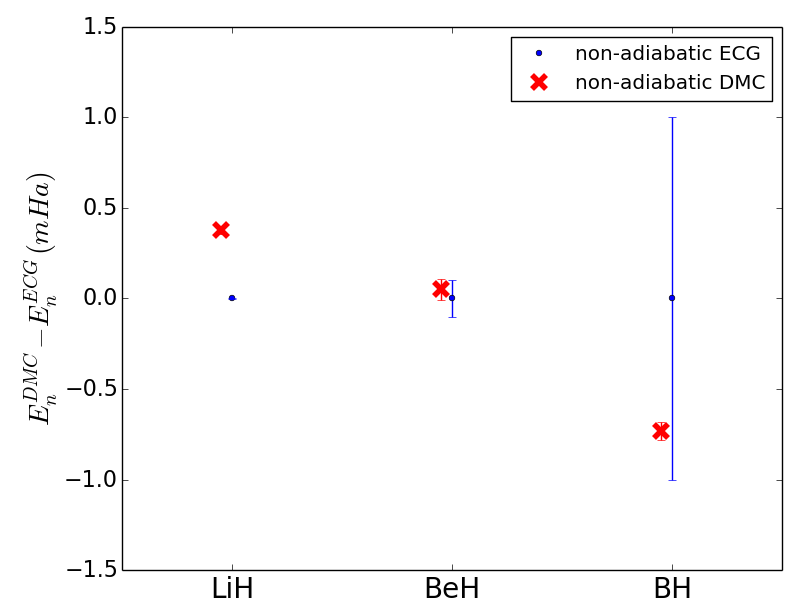
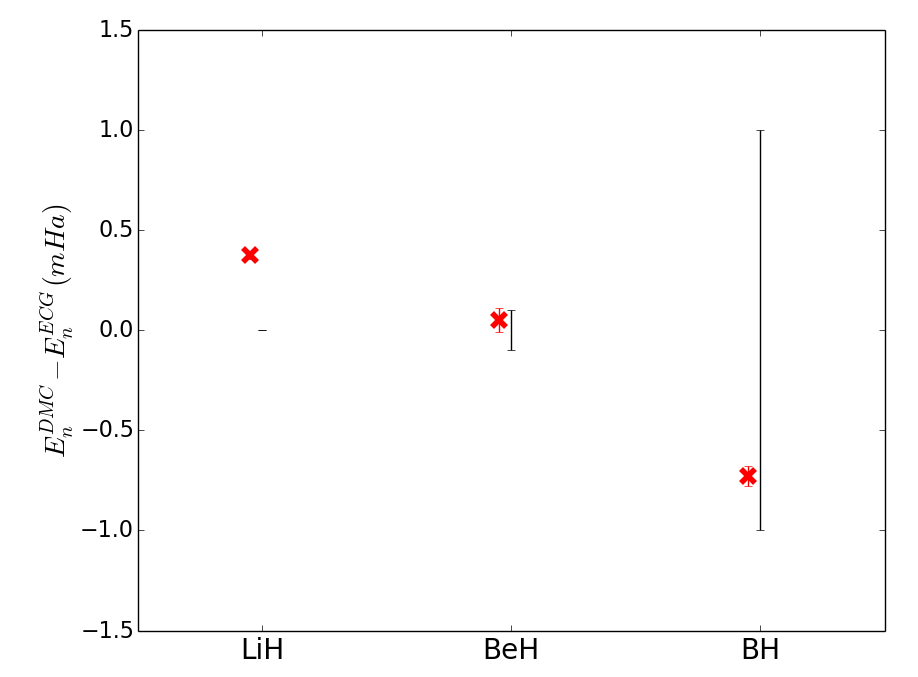
Reorganizing Results
Talk about atoms and ions first, then hydrides. Discuss every figure,
explain all differences.

diff --git a/main.tex b/main.tex
@@ -10,7 +10,7 @@
 \title{Accurate predictions of ionization and atomization energies without the Born-Oppenheimer approximation}
 \input{Section/authors}
 \begin{abstract}
-In this work we calculate the non-relativistic ground-state energies of atomic and molecular systems both with and without the Born-Oppenheimer approximation. For this we utilize the fixed-node diffusion Monte Carlo method, in which the nodes depend on both the electronic and ionic positions. We report ground state energies, ionization energies and atomization energies to an accuracy of less than $1$ mHa for all but the largest systems. We find the ionization energies of the atoms to be independent of the adiabatic assumption except for O and F where the non-adiabatic and adiabatic ionization energies differ by less than 0.5 mHa. The observation suggests that the non-adiabatic coupling between the nucleus and valence electrons is not important in the ionization process. The atomization energies, however, are influenced by the non-adiabatic coupling between electrons and nuclei at the mHa level. We demonstrate that the fixed-node approximation provides a highly accurate and scalable approach to treating molecular systems beyond the Born-Oppenheimer approximation.
+In this work we calculate the non-relativistic ground-state energies of atomic and molecular systems both with and without the Born-Oppenheimer approximation. For this we utilize the fixed-node diffusion Monte Carlo method, in which the nodes depend on both the electronic and ionic positions. We report ground state energies, ionization energies and atomization energies to an accuracy of less than $1$ mHa for all but the largest systems. We find the ionization energies of the atoms to be independent of the adiabatic assumption except for O and F where the non-adiabatic and adiabatic ionization energies differ by less than 0.5 mHa. This observation suggests that the non-adiabatic coupling between the nucleus and valence electrons is not important in the ionization process. The atomization energies, however, are influenced by the non-adiabatic coupling between electrons and nuclei at the mHa level. We demonstrate that the fixed-node approximation provides a highly accurate and scalable approach to treating molecular systems beyond the Born-Oppenheimer approximation.
 \end{abstract}
 \maketitle
 
@@ -52,7 +52,7 @@ Once a satisfactory electronic wave function has been obtained, we construct the
 \begin{align}
 \Psi_{ei}(\vec{r},\vec{R})=\psi_I(\vec{R})\bar{\psi}_e(\vec{r},\vec{R}), \label{eq:psi}
 \end{align}
-where $\vec{R}$ denotes the spatial coordinates of all ions and $\bar{\psi}_e(\vec{r},\vec{R})$ is an ion-dependent electronic wave function adapted from the clamped-ion wave function $\psi_e(\vec{r};\vec{R}_o)$. Due to the nuclear localization of the Gaussian electronic basis set used in the quantum chemistry calculations for constructing the electronic wave function, the nodes of $\bar{\psi}_e$ change based on the ionic positions, which we have previously called the dragged-node approximation~\cite{Tubman_ECG}. In particular, the nodes only coincide with those obtained in the clamped-ion limit when the ions are at the equilibrium positions $\bar{\psi}_e(\vec{r},\vec{R}_o)=\psi_e(\vec{r};\vec{R}_o)$. Although there are approaches for going beyond this approximation, it was demonstrated to be highly accurate over a range of molecules in previous work.~\cite{Tubman_ECG} For the systems considered here, we can impose various symmetries of the Hamiltonian onto the wave function that arise from the relative motion of the ions. In Fig.~\ref{fig:drag} we demonstrate this strategy for the simple cases of a hydrogen atom and a H$_2^+$ molecular ion. This can be generalized for use in larger systems or even applied to parts of a bigger system, e.g., treating light ions as quantum particles and heavy ions as "clamped".
+where $\vec{R}$ denotes the spatial coordinates of all ions and $\bar{\psi}_e(\vec{r},\vec{R})$ is an ion-dependent electronic wave function adapted from the clamped-ion wave function $\psi_e(\vec{r};\vec{R}_o)$. Due to the nuclear localization of the Gaussian electronic basis set used in the quantum chemistry calculations for constructing the electronic wave function, the nodes of $\bar{\psi}_e$ change based on the ionic positions, which we have previously called the dragged-node approximation~\cite{Tubman_ECG}. In particular, the nodes only coincide with those obtained in the clamped-ion limit when the ions are at their equilibrium positions $\bar{\psi}_e(\vec{r},\vec{R}_o)=\psi_e(\vec{r};\vec{R}_o)$. Although there are approaches for going beyond this approximation, it was demonstrated to be highly accurate over a range of molecules in previous work.~\cite{Tubman_ECG} For the systems considered here, we can impose various symmetries of the Hamiltonian onto the wave function that arise from the relative motion of the ions. In Fig.~\ref{fig:drag} we demonstrate this strategy for the simple cases of a hydrogen atom and a H$_2^+$ molecular ion. This can be generalized for use in larger systems or even applied to parts of a bigger system, e.g., treating light ions as quantum particles and heavy ions as "clamped".
 
 The ionic wave function consists of simple products of Gaussian wave functions over each pair of nuclei,
 \begin{align}
@@ -67,22 +67,25 @@ where $a_{ij}$ is a coefficient for the ionic wave function that is optimized an
 \begin{figure}
 \centering
 \includegraphics[scale=.4]{Figures/atom-ECG}
-\caption{FN-DMC ground state energies for $\text{Be}^+$, Be, $\text{B}^+$, B, $\text{C}^+$ relative to ECG references.~\cite{Stanke_Be,Puchalski_Be+,Bubin_BeH_noBO,Bubin_B,Bubin_B+,Bubin_C+} These differences provide an estimate for the fixed-node error. \label{fig:atom-ECG}}
+\caption{FN-DMC ground state energies for $\text{Be}^+$, Be, $\text{B}^+$, B, $\text{C}^+$ relative to ECG references for either clamped-ion or non-adiabatic calculations.~\cite{Stanke_Be,Puchalski_Be+,Bubin_BeH_noBO,Bubin_B,Bubin_B+,Bubin_C+} \label{fig:atom-ECG}}
 \end{figure}
 
-\begin{figure}[h]
-\centering
-\includegraphics[scale=.4]{Figures/dia-ECG}
-\caption{Ground state energies of LiH, BeH and BH calculated with non-adiabatic FN-DMC relative to ECG results.~\cite{Adamowicz_LiH,Koput_BeH,Miliordos_BH}.\label{fig:dia-ECG}}
+\begin{figure}
+\includegraphics[scale=.4]{Figures/atom-nad-ad}
+\caption{Non-adiabatic contribution to ground state energies of atoms and ions. $E_n^{DMC}$ denotes the non-adiabatic ground state energy and $E_c^{DMC}$ the clamped-ion ground state energy. Non-adiabatic contribution shows very little dependence with the ionized state. \label{fig:atom-nad-ad}}
 \end{figure}
-
-\subsection{Ground State Energies}
 
 Ground state energies are calculated for first row atoms, ions and hydrides with and without the adiabatic assumption, see Table \ref{tab:ionization} and \ref{tab:atomization}. For the small systems, Li, Be, B, Be$^+$, B$^+$, C$^+$, LiH the ECG/Hylleraas results are converged to several digits beyond what can be done with standard quantum chemistry techniques. Thus these results are likely much more accurate than experimental results and are converged to an accuracy beyond our FN-DMC results.
 
-As an illustration of the high quality QMC techniques used in this work, we compare our atomic results with a recent QMC benchmark study~\cite{Seth_Bench}. The clamped nuclei ground state FN-DMC energies consistently agree across all systems (except for O$^{+}$), within error bars. This is an interesting coincidence since we used a different approach in optimizing our wave functions. In particular our large ($\sim$ 1000 CSF) multi-determinant expansions, can be compared with the approach used by Seth {\it et al.}~\cite{Seth_Bench}, which relies on moderately-sized multi-determinant expansions ($\sim$ 100 CSF) with a backflow transformation. We compare our diatomic results with the best available ECG results whenever possible. The clamped nuclei ground state energies for LiH, BeH and BH are on par with the ECG results~\cite{Adamowicz_LiH,Koput_BeH,Miliordos_BH}. When 
- 
-For the atomic systems, there are five ECG calculations of non-adiabatic ground state energies we can use as benchmarks. The non-adiabatic ground-state energies for Be, $\text{Be}^+$, B, $\text{B}^+$ and $\text{C}^+$ are in agreement with ECG results within 0.3 mHa as shown in Figure \ref{fig:atom-ECG}. The non-adiabatic energies of the hydrides are in agreement with the ECG results for LiH and BeH to within 0.5 mHa as shown in Figure \ref{fig:dia-ECG}. For small systems, ECG results are typically orders of magnitude more accurate than the best QMC and quantum chemistry simulations. However, with BH being one of the largest ECG simulations performed, the QMC result is actually lower in energy, in this case by 1 mHa. For the systems CH, OH, and HF, there are no explicit simulations we can compare against, and we rely on the experimental results and the results with estimated non-adiabatic corrections for comparison.
+\subsection{Atoms and Ions}
+
+As an illustration of the high quality QMC techniques used in this work, we compare our adiabatic atomic results with a recent QMC benchmark study~\cite{Seth_Bench}. The clamped nuclei ground state FN-DMC energies consistently agree across all systems (except for O$^{+}$), within error bars. This is an interesting coincidence since we used a different approach in optimizing our wave functions. In particular our large ($\sim$ 1000 CSF) multi-determinant expansions can be compared with the approach used by Seth {\it et al.}~\cite{Seth_Bench}, which relies on moderately-sized multi-determinant expansions ($\sim$ 100 CSF) with a backflow transformation. 
+
+For the atomic systems, there are five ECG calculations of non-adiabatic ground state energies we can use as benchmarks. The non-adiabatic ground-state energies for Be, $\text{Be}^+$, B, $\text{B}^+$ and $\text{C}^+$ are in agreement with ECG results within 0.3 mHa as shown in Figure \ref{fig:atom-ECG}. In Figure \ref{fig:atom-ECG}, the ECG error bars are absorbed into the DMC error bars. Since they are orders of magnitude smaller, they do not affect the appearance of this plot. Assuming the ECG results are converged to the exact ground state energies, the difference between clamped-ion DMC ground state and ECG reference shows the amount of fixed-node error present in our electronic wave functions, whiles its non-adiabatic counterpart estimates the fixed-node error for the electron-ion wave function. We see that the fixed-node error in the electron-ion wave functions can be larger than that in the electronic wave function at the sub-mHa level. Since the dragged-node approximation does not change the quality of nodes for atoms and ions, the additional fixed-node error in the electron-ion wave function indicates that nuclear-electron correlation can non-trivially modify the nodes of the wave function.
+
+In Figure \ref{fig:atom-nad-ad}, we provide estimates of the non-adiabatic contribution to ground state energies. The amount of non-adiabatic contribution increases with atomic number but stays relatively constant between neatral and cationic species.
+
+The ionization energies are reported in Table \ref{tab:ionization} and shown in Figure \ref{fig:ionization}. It is interesting to note that even though the ground-state energy of an atom can differ significantly from that of its cation (as much as 3 mHa for $\text{F}^+$). The ionization energies calculated with and without the adiabatic assumption are statistically indistinguishable except for O and F, where the differences are 0.26(11)mHa and 0.49(12)mHa respectively. This observation suggests that for atomic systems, the non-adiabatic coupling between valence electrons and ion motion is small.
 
 \begin{figure}
 \centering
@@ -90,20 +93,19 @@ For the atomic systems, there are five ECG calculations of non-adiabatic ground 
 \caption{Calculated ionization energies relative to experimental data. The calculated energies are all within 1 mHa of experiment. \label{fig:ionization}}
 \end{figure}
 
-\begin{figure}
-\includegraphics[scale=.4]{Figures/atom-nad-ad}
-\caption{Non-adiabatic contribution to ground state energies of atoms and ions. $E_n^{DMC}$ denotes the non-adiabatic ground state energy and $E_c^{DMC}$ the clamped-ion ground state energy.\label{fig:atom-nad-ad}}
+\subsection{Hydrides}
+
+We compare our diatomic results with the best available ECG results whenever possible. The clamped-nuclei ground-state energies for LiH, BeH and BH are on par with the ECG results~\cite{Adamowicz_LiH,Koput_BeH,Miliordos_BH}. The non-adiabatic energies are in agreement with the ECG results for LiH and BeH to within 0.5 mHa as shown in Figure \ref{fig:dia-ECG}. For small systems, ECG results are typically orders of magnitude more accurate than the best QMC and quantum chemistry simulations. However, with BH being one of the largest ECG simulations performed, the QMC result is actually lower in energy, in this case by 1 mHa. For the larger systems CH, OH, and HF, there are no explicit simulations we can compare against, and we rely on the experimental results and the results with estimated non-adiabatic corrections for comparison.
+
+\begin{figure}[h]
+\centering
+\includegraphics[scale=.4]{Figures/dia-ECG}
+\caption{Ground state energies of LiH, BeH and BH calculated with non-adiabatic FN-DMC relative to ECG results.~\cite{Adamowicz_LiH,Koput_BeH,Miliordos_BH}.\label{fig:dia-ECG}}
 \end{figure}
-
-\subsection{Ionization Energies}
-
-The ionization energies are reported in Table \ref{tab:ionization} and shown in Figure \ref{fig:ionization}. It is interesting to note that even though the ground-state energy of an atom can differ significantly from that of its cation (as much as 3 mHa for $\text{F}^+$). The ionization energies calculated with and without the adiabatic assumption are statistically indistinguishable except for O and F, where the differences are 0.26(11)mHa and 0.49(12)mHa respectively. This observation suggests that for atomic systems, the non-adiabatic coupling between valence electrons and ion motion is small. This point can be further illustrated by directly calculating the non-adiabatic contribution to the ground-state energies of the atoms and ions as the difference between the adiabatic and non-adiabatic ground-state energies as shown in Figure \ref{fig:atom-nad-ad}. The amount of non-adiabatic contribution increases with atomic number but stays relatively constant between neatral and cationic species.
 
 For the LiH molecule we are also interested in calculating the electron affinity for comparison to ECG results. We calculated the ground state energy of LiH$^-$ to be $-8.08220(2)$~Ha for the case of clamped nuclei.  With non-adiabatic effects included our result is  $-8.07811(3)$~Ha. Our non-adiabatic result is in good agreement with a previous ECG study \cite{Bubin_LiH_noBO}, which reported a value of $-8.07856887$~Ha. We report an electron affinity of $0.01191(4)$~Ha, which can be compared to the ECG prediction of $0.012132(2)$~Ha and agrees with experiment, $0.0126(4)$~Ha. \footnote{We note that LiH ground state energies which we compare against are mislabeled in Ref.\cite{Bubin_LiH_noBO}, with $\text{LiH}^-$ and LiD being switched.}
 
 \input{Table/diatomics}
-
-\subsection{Atomization Energies}
 
 \begin{figure}[h]
 \centering
@@ -112,7 +114,7 @@ For the LiH molecule we are also interested in calculating the electron affinity
 \end{figure}
 
 \begin{figure}[h]
-\includegraphics[scale=.37]{Figures/hydride-ZPE}
+\includegraphics[scale=.37]{Figures/diatomics-nad-ad}
 \caption{Non-adiabatic contribution to ground state energies in hydrides. The adiabatic reference energies are calculated by adding zero-point contributions from \cite{Feller_Corrections} to our clamped-nuclei results.}
 \end{figure}
 

diff --git a/Table/diatomics.tex b/Table/diatomics.tex
@@ -60,7 +60,7 @@ Feller \tnote{b} \cite{Feller_Corrections} & 0.09262(5) & 0.0809(4) & 0.1354(2) 
 \multicolumn{1}{c}{} &
 \multicolumn{1}{c}{} &
 \multicolumn{1}{c}{} \\
-$D_e$ (this work) & 0.08893(2)  & 0.07585(6)  & 0.12893(7) & 0.1246(2) & 0.1617(4) & 0.2158(4) \\
+$D_e$ (this work) & 0.08893(2)  & 0.07585(6)  & 0.12893(7) & 0.1246(2) & 0.1621(2) & 0.2143(2) \\
 Feller \tnote{c} \cite{Feller_Corrections} & 0.08940(5) & 0.0761(4) & 0.1299(2) & 0.1276(2) & 0.1622(2) & 0.2166(3)\\
 Exp. \cite{CCCBDB} & 0.08874(38) & 0.0826(11) & 0.1281(37) & 0.1275(5) & 0.1622(1) & 0.2158(3) \\
 \hline\hline
